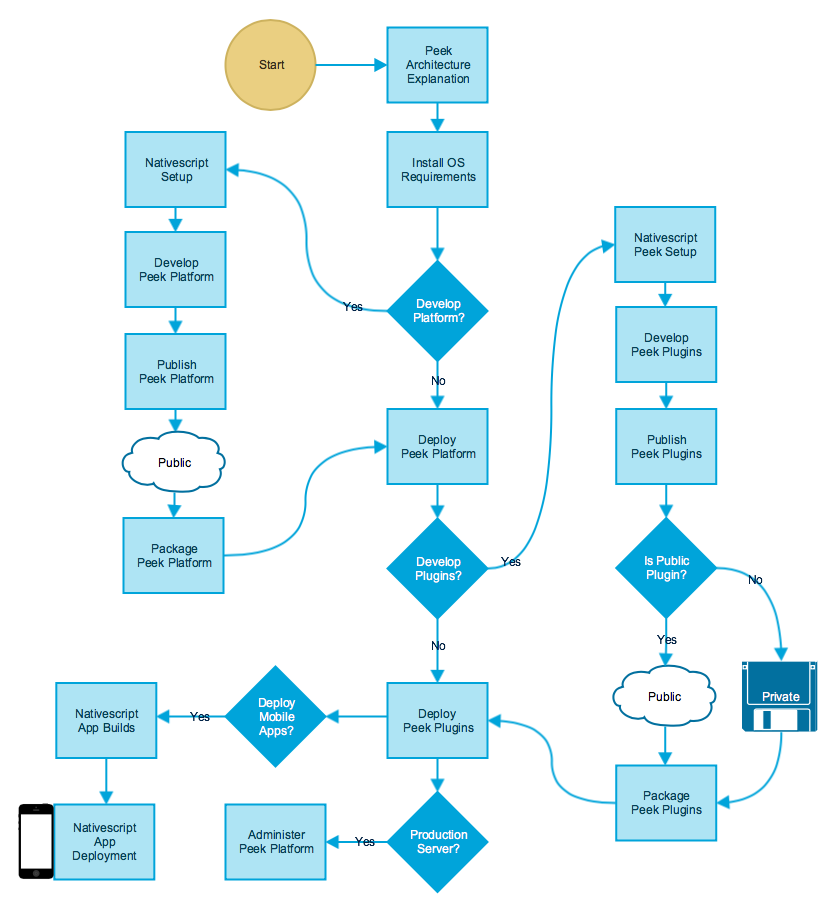
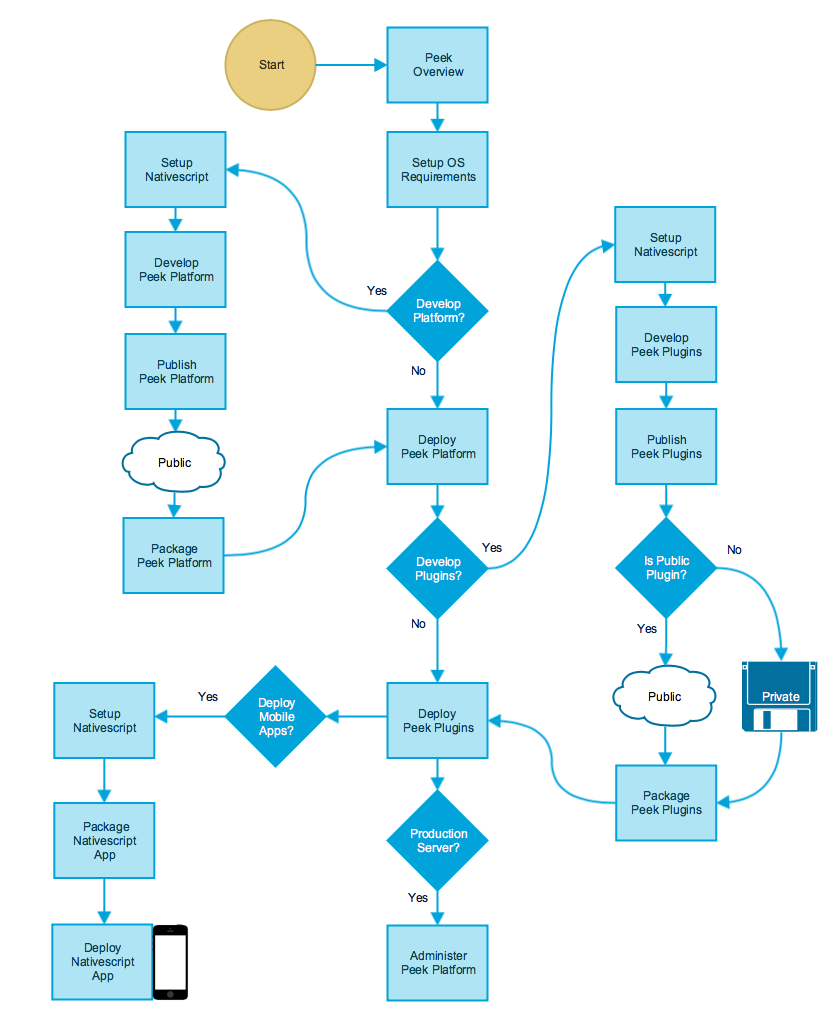
Updated README_doc_map

diff --git a/docs/architecture/peek_architecture.rst b/docs/architecture/peek_architecture.rst
@@ -16,7 +16,9 @@ networks.
 This achieves an extra step of separation, and potentially more processing
 power.
 
-The following diagram describes the architecture of the platform.
+The following diagram describes the architecture of the platform and the services it
+it provides.
 
 .. image:: platform_architecture.png
 
+The
